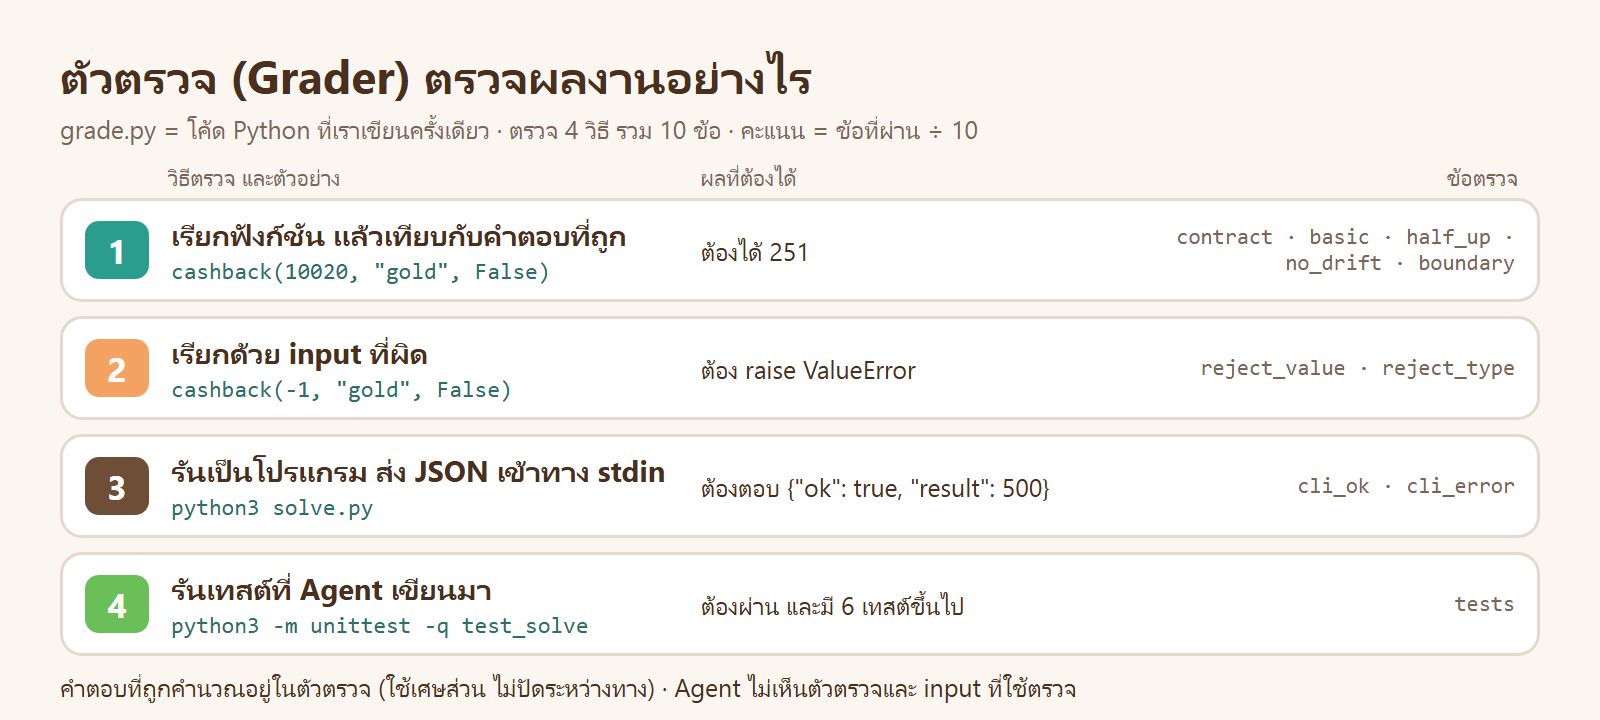
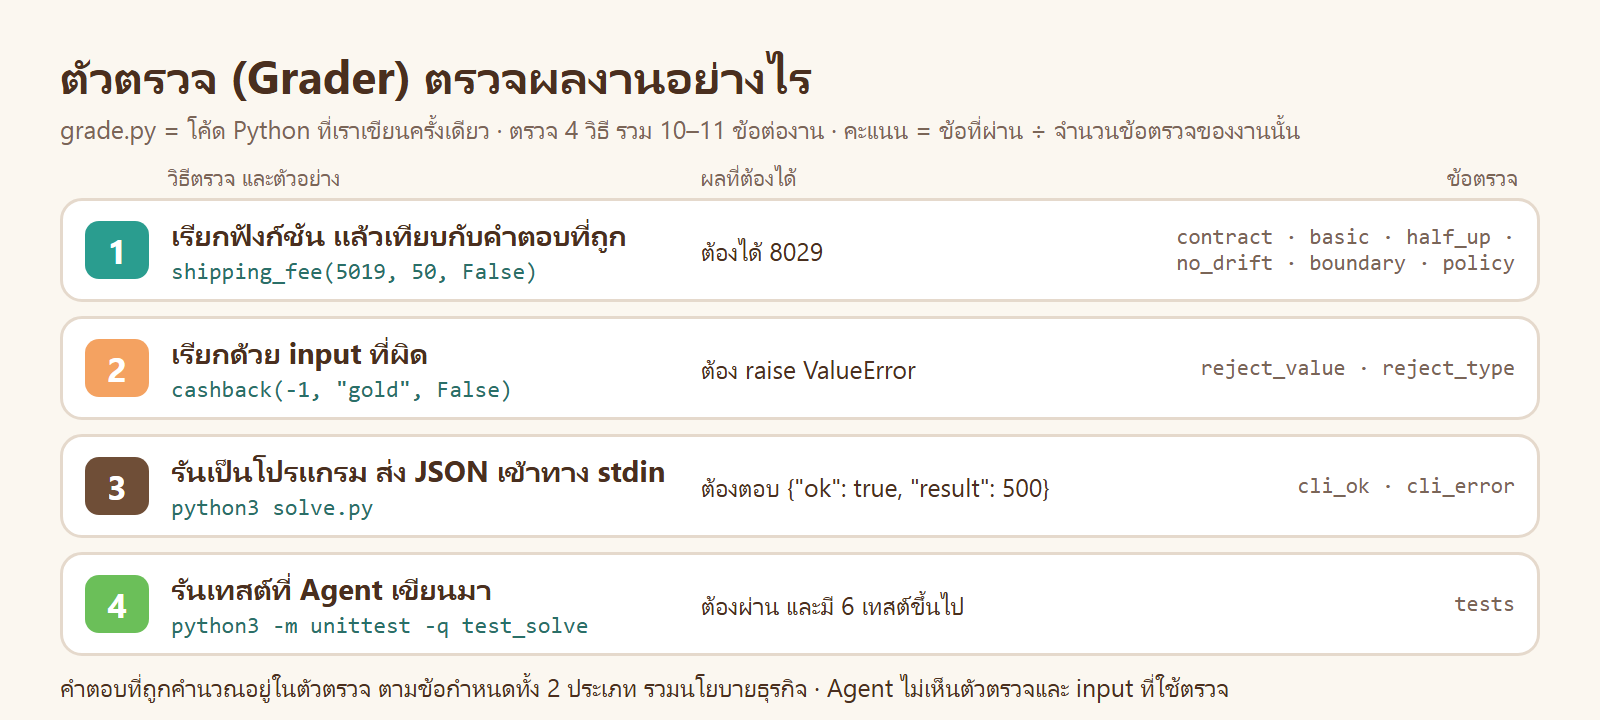
Skill Optimizer: 1.7 covers the policy check and business tacit knowledge
Add the four hidden policies (C1 C2 S1 S2), the 11th check `policy`, per-task
check counts, the policy block in grade.py, and a regraded v0 example. Redraw
d01, d02 and g22 for 10-11 checks.

diff --git a/03_week03/05_Skill_Optimizer/tools/diagrams.py b/03_week03/05_Skill_Optimizer/tools/diagrams.py
@@ -25,12 +25,12 @@ def arrow(txt="➜"):
 def pipeline():
     row1 = "".join([
         card("#6F4E37", "โจทย์ 6 ข้อ", "suite/suite.json", "กติกาธุรกิจของแต่ละฟังก์ชัน<br>แบ่ง Training 4 · Validation 2", "flex:1"),
-        card("#6F4E37", "ตัวตรวจ (Grader)", "suite/grade.py", "โค้ด Python ที่เราเขียนเอง<br>ตรวจมาตรฐานของร้าน 10 ข้อ", "flex:1"),
+        card("#6F4E37", "ตัวตรวจ (Grader)", "suite/grade.py", "โค้ด Python ที่เราเขียนเอง<br>ตรวจข้อกำหนดของร้าน 10–11 ข้อ", "flex:1"),
         card("#6F4E37", "สกิล 1 รุ่น", "skills/money-coder/v0/SKILL.md", "มาตรฐานของร้านที่เขียนให้ AI อ่าน<br>สิ่งเดียวที่เปลี่ยนในแต่ละรุ่น", "flex:1")])
     row2 = arrow("").join([]) + "".join([
         card("#2A9D8F", "1 เตรียมโฟลเดอร์ว่าง", "sandbox/", "วางสกิลไว้ใน<br>./skills", "flex:1"), arrow(),
         card("#2A9D8F", "2 Agent เขียนโค้ด", "solve.py · test_solve.py", "อ่านโจทย์และสกิล<br>แล้วเขียนเอง", "flex:1.15"), arrow(),
-        card("#F4A261", "3 ตัวตรวจให้คะแนน", "grade.py → grade.json", "รันโค้ดของ Agent<br>ผ่านกี่ข้อจาก 10", "flex:1.1"), arrow(),
+        card("#F4A261", "3 ตัวตรวจให้คะแนน", "grade.py → grade.json", "รันโค้ดของ Agent<br>ผ่านกี่ข้อจาก 10–11", "flex:1.1"), arrow(),
         card("#6BBF59", "4 รวมผลและตัดสิน", "report · gate", "เฉลี่ย 18 Trial เทียบรุ่นฐาน<br>ACCEPT หรือ REJECT", "flex:1.15")])
     body = """<h1>ไพป์ไลน์การทดลองของสกิล 1 รุ่น</h1>
     <div class='sub' style='margin-bottom:14px'>คนเตรียม 3 อย่าง · ที่เหลือ skill-optimizer รันให้อัตโนมัติ</div>
@@ -46,8 +46,8 @@ def pipeline():
 
 def grader():
     rows = [
-        ("teal", "1", "เรียกฟังก์ชัน แล้วเทียบกับคำตอบที่ถูก", "cashback(10020, \"gold\", False)", "ต้องได้ 251",
-         "contract · basic · half_up · no_drift · boundary"),
+        ("teal", "1", "เรียกฟังก์ชัน แล้วเทียบกับคำตอบที่ถูก", "shipping_fee(5019, 50, False)", "ต้องได้ 8029",
+         "contract · basic · half_up · no_drift · boundary · policy"),
         ("orange", "2", "เรียกด้วย input ที่ผิด", "cashback(-1, \"gold\", False)", "ต้อง raise ValueError",
          "reject_value · reject_type"),
         ("brown", "3", "รันเป็นโปรแกรม ส่ง JSON เข้าทาง stdin", "python3 solve.py", "ต้องตอบ {\"ok\": true, \"result\": 500}",
@@ -65,11 +65,11 @@ def grader():
           <div style='flex:1;%s;font-size:22px;color:#7A6557;text-align:right'>%s</div></div>""" % (
             CARD, color, no, how, MONO, call, want, MONO, checks)
     body = """<h1>ตัวตรวจ (Grader) ตรวจผลงานอย่างไร</h1>
-    <div class='sub' style='margin-bottom:16px'>grade.py = โค้ด Python ที่เราเขียนครั้งเดียว · ตรวจ 4 วิธี รวม 10 ข้อ · คะแนน = ข้อที่ผ่าน ÷ 10</div>
+    <div class='sub' style='margin-bottom:16px'>grade.py = โค้ด Python ที่เราเขียนครั้งเดียว · ตรวจ 4 วิธี รวม 10–11 ข้อต่องาน · คะแนน = ข้อที่ผ่าน ÷ จำนวนข้อตรวจของงานนั้น</div>
     <div style='display:flex;gap:22px;font-size:23px;color:#7A6557;padding:0 22px 6px'>
       <div style='width:64px'></div><div style='flex:1.25'>วิธีตรวจ และตัวอย่าง</div><div style='flex:0.95'>ผลที่ต้องได้</div><div style='flex:1;text-align:right'>ข้อตรวจ</div></div>
     %s
-    <div style='font-size:25px;color:#4A2F1F;margin-top:6px'>คำตอบที่ถูกคำนวณอยู่ในตัวตรวจ (ใช้เศษส่วน ไม่ปัดระหว่างทาง) · Agent ไม่เห็นตัวตรวจและ input ที่ใช้ตรวจ</div>""" % h
+    <div style='font-size:25px;color:#4A2F1F;margin-top:6px'>คำตอบที่ถูกคำนวณอยู่ในตัวตรวจ ตามข้อกำหนดทั้ง 2 ประเภท รวมนโยบายธุรกิจ · Agent ไม่เห็นตัวตรวจและ input ที่ใช้ตรวจ</div>""" % h
     shot("d02-grader", body, 720)
 
 

diff --git a/03_week03/05_Skill_Optimizer/README.md b/03_week03/05_Skill_Optimizer/README.md
@@ -366,7 +366,8 @@ Ran 12 tests ... OK
 | | Agent (AI ที่เขียนโค้ด) | ตัวตรวจ (`grade.py`) |
 |---|---|---|
 | ข้อกำหนดที่ระบุชัด | ✓ อ่านจากโจทย์ | ✓ |
-| ความรู้แฝงของทีม | ✗ รู้เฉพาะส่วนที่สกิลบอก | ✓ ครบ 5 ข้อ |
+| ความรู้แฝงกลุ่ม 1: มาตรฐานการเขียนโค้ด 5 ข้อ | ✗ รู้เฉพาะส่วนที่สกิลบอก | ✓ |
+| ความรู้แฝงกลุ่ม 2: นโยบายธุรกิจ 4 ข้อ | ✗ รู้เฉพาะส่วนที่สกิลบอก | ✓ |
 | Input ที่ใช้ตรวจ | ✗ | ✓ ซ่อนไว้ในไฟล์ |
 | คำตอบที่ถูก | ✗ | ✓ คำนวณเอง |
 
@@ -378,11 +379,24 @@ Ran 12 tests ... OK
 | ตัดสินด้วยเกณฑ์เดียวกันทุกครั้ง | คะแนนของทุกรุ่นเทียบกันได้อย่างยุติธรรม |
 | ถ้าตัวตรวจผิด ตัวเลขทุกตัวผิดตาม | ต้องตรวจตัวตรวจก่อนใช้ด้วย [`suite/check_grader.py`](suite/check_grader.py) (LAB 0) |
 
+### ความรู้แฝงกลุ่ม 2: นโยบายธุรกิจ 4 ข้อ
+
+นโยบายที่พนักงานรู้ แต่ไม่ได้เขียนลงโจทย์ · มีอยู่ **ในตัวตรวจเท่านั้น** · ใช้กับงาน 3 ค่าส่ง และงาน 4 เงินคืน
+
+| ข้อ | งาน | โจทย์บอกว่า (Explicit Requirement) | ทีมรู้กันเองว่า (Tacit Knowledge) | ✓ ถูก | ✗ ทำตามโจทย์อย่างเดียว |
+|---|---|---|---|---|---|
+| **C1** | เงินคืน | เดือนเกิด ได้เงินคืน 2 เท่า | สิทธิ์ 2 เท่า **เฉพาะ gold และ platinum** | `cashback(20000, "silver", True)` → `300` | `600` |
+| **C2** | เงินคืน | คืนเงินคืน เป็นจำนวนเต็มสตางค์ | เงินคืนเป็นเงินที่ร้าน **จ่ายออก** จึง **ปัดลง** | `cashback(10020, "gold", False)` → `250` | `251` |
+| **S1** | ค่าส่ง | `distance_km` ตั้งแต่ 0 | 0 กม. = ลูกค้า **รับเองที่ร้าน** ไม่คิดค่าส่ง | `shipping_fee(3000, 0, False)` → `0` | `8000` |
+| **S2** | ค่าส่ง | น้ำหนัก 1–30,000 กรัม | ส่งด่วนรับ **ไม่เกิน 20,000 กรัม** | `shipping_fee(20001, 10, True)` → `ValueError` | `45752` |
+
+C1 และ C2 คือกรณีที่โจทย์เขียน **กว้างกว่าที่ร้านทำจริง** ซึ่งพบบ่อยในงานจริง · C2 เป็นข้อยกเว้นของความรู้แฝงข้อ 2 (ปัดครึ่งขึ้น) เฉพาะเงินที่ร้านจ่ายออก
+
 ### ตัวตรวจตรวจอย่างไร
 
-![ตัวตรวจ ตรวจผลงาน 4 วิธี รวม 10 ข้อ](img/d02-grader.png)
+![ตัวตรวจ ตรวจผลงาน 4 วิธี](img/d02-grader.png)
 
-**ข้อตรวจ 10 ข้อ** · ข้อ 2–7 ใช้ Input หลายชุด ต้องถูก **ทุกชุด** จึงผ่าน
+**ข้อตรวจ 11 แบบ** · ข้อ 2–7 และ 11 ใช้ Input หลายชุด ต้องถูก **ทุกชุด** จึงผ่าน
 
 | # | ข้อตรวจ | ผ่านเมื่อ | ตรวจข้อกำหนด |
 |---|---|---|---|
@@ -396,52 +410,66 @@ Ran 12 tests ... OK
 | 8 | `cli_ok` | รันเป็นโปรแกรม ข้อมูลถูก → ตอบ `{"ok": true, "result": …}` exit 0 | ความรู้แฝงข้อ 4 |
 | 9 | `cli_error` | รันเป็นโปรแกรม ข้อมูลผิด → ตอบ `{"ok": false, "error": "…"}` exit 2 | ความรู้แฝงข้อ 4 |
 | 10 | `tests` | มี `test_solve.py` อย่างน้อย 6 เทสต์ มีเทสต์ของข้อมูลผิด และรันผ่าน | ความรู้แฝงข้อ 5 |
+| 11 | `policy` | ทำตามนโยบายธุรกิจของงานนั้นครบทุกกรณี | นโยบายธุรกิจ C1 C2 S1 S2 |
 
-**คะแนนของ 1 Trial = จำนวนข้อที่ผ่าน ÷ 10** · ข้อตรวจ 2 ข้อตรวจข้อกำหนดที่ระบุชัดอย่างเดียว อีก 8 ข้อตรวจความรู้แฝงของทีม (ข้อ 1 ตรวจทั้งสองประเภท)
+**จำนวนข้อตรวจต่องาน**
+
+| งาน | ข้อตรวจ | เหตุผล |
+|---|---|---|
+| 1 2 5 6 | ข้อ 1–10 = 10 ข้อ | ไม่มีนโยบายธุรกิจ |
+| 3 ค่าส่ง | ข้อ 1–11 = 11 ข้อ | เพิ่ม `policy` (S1 S2) |
+| 4 เงินคืน | 10 ข้อ (ไม่มี `half_up` มี `policy`) | เงินคืนปัดลงตาม C2 การปัดจึงตรวจใน `policy` แทน |
+
+**คะแนนของ 1 Trial = ข้อที่ผ่าน ÷ จำนวนข้อตรวจของงานนั้น**
+
+Input ของข้อตรวจอื่นในงาน 3 และ 4 ถูกเลือกให้คำตอบไม่ขึ้นกับนโยบาย โค้ดที่ไม่รู้นโยบายจึงตก **`policy` ข้อเดียว** และข้อความใต้ `✗ policy` ชี้ตรงไปที่นโยบายที่ขาด
 
 ### ข้างใน `grade.py`: ข้อกำหนดแต่ละประเภทอยู่ตรงไหน
 
 ```python
-def o_cashback(amount, tier, birthday):        # คำตอบที่ถูก
+def o_cashback(amount, tier, birthday):        # คำตอบที่ถูก (Oracle)
     if amount < 10000:                         #   ข้อกำหนดที่ระบุชัด: ต่ำกว่า 100 บาท ไม่ได้เงินคืน
         return 0
     x = amount * RATE[tier]                    #   ข้อกำหนดที่ระบุชัด: อัตราตามระดับสมาชิก
-    if birthday:
-        x *= 2                                 #   ข้อกำหนดที่ระบุชัด: เดือนเกิด 2 เท่า
-    return min(20000, half_up(x))              #   ความรู้แฝงข้อ 2: ปัดครึ่งขึ้น ครั้งเดียวตอนท้าย
+    if birthday and tier in ("gold", "platinum"):
+        x *= 2                                 #   ระบุชัด: เดือนเกิด 2 เท่า + นโยบาย C1: เฉพาะ gold platinum
+    return min(20000, int(F(x) // 1))          #   ระบุชัด: สูงสุด 200 บาท + นโยบาย C2: ปัดลง
 
 TASKS = {"t4-cashback": {
-    "basic":     [[20000, "gold", False], ...],   # Input ซ่อน: ข้อกำหนดที่ระบุชัด
-    "half_up":   [[10020, "gold", False], ...],   # Input ซ่อน: ความรู้แฝงข้อ 2
-    "bad_value": [[-1, "gold", False], ...],      # Input ซ่อน: ความรู้แฝงข้อ 3 (ต้องถูกปฏิเสธ)
+    "basic":     [[20000, "gold", False], ...],                # Input ซ่อน: ข้อกำหนดที่ระบุชัด
+    "bad_value": [[-1, "gold", False], ...],                   # Input ซ่อน: ความรู้แฝงข้อ 3
+    "policy":    [[[20000, "silver", True], 300], ...],        # Input ซ่อน + คำตอบ: นโยบาย C1 C2
 }}
 ```
 
 | ส่วนของ `grade.py` | ทำอะไร | ใช้ในข้อตรวจ |
 |---|---|---|
-| `o_cashback()` และ `o_…` อื่น | คำนวณคำตอบที่ถูก ด้วยเศษส่วน ไม่ปัดระหว่างทาง | `basic` `half_up` `no_drift` `boundary` |
-| `TASKS` | เก็บ Input ที่ซ่อนไว้ แยกตามข้อตรวจ | ข้อ 1–7 |
-| `run_cases()` | เรียกฟังก์ชันที่ Agent เขียนด้วย Input ที่ซ่อนไว้ แล้วเทียบกับคำตอบที่ถูก | ข้อ 1–7 |
+| `o_cashback()` และ `o_…` อื่น (Oracle) | คำนวณคำตอบที่ถูกด้วยเศษส่วน ตามข้อกำหนดทั้ง 2 ประเภท รวมนโยบายธุรกิจ | `basic` `half_up` `no_drift` `boundary` `cli_ok` |
+| `TASKS` | เก็บ Input ที่ซ่อนไว้ แยกตามข้อตรวจ | ข้อ 1–7 และ 11 |
+| `run_cases()` | เรียกฟังก์ชันที่ Agent เขียนด้วย Input ที่ซ่อนไว้ ใน process แยก แล้วเทียบกับคำตอบที่ถูก | ข้อ 1–7 และ 11 |
 | `cli()` | รัน `python3 solve.py` ส่ง JSON ทาง stdin แล้วอ่านคำตอบและ exit code | `cli_ok` `cli_error` |
-| ส่วนท้ายของ `main()` | รัน `python3 -m unittest` กับเทสต์ที่ Agent เขียน | `tests` |
+| บล็อก `tests` ใน `main()` | รัน `python3 -m unittest` กับเทสต์ที่ Agent เขียน | `tests` |
+| บล็อก `policy` ใน `main()` | เทียบผลกับคำตอบของนโยบายแต่ละกรณี หรือตรวจว่า raise `ValueError` | `policy` |
 
-### ตัวอย่างผลตรวจจริง
+### ตัวอย่างผลตรวจ
 
-สกิล `v0` งาน `cashback` ได้ 7/10
+โค้ด `cashback` ที่สกิล `v0` เขียนในการรันรอบก่อน ([ไฟล์](results/runs/v0/t4-cashback-r1/sandbox/solve.py)) ตรวจด้วยตัวตรวจฉบับปัจจุบัน ได้ 6/10
 
 ```text
-score 0.7
-✓ contract  ✓ basic  ✓ half_up  ✓ no_drift  ✓ boundary  ✓ reject_value  ✓ tests
+score 0.6
+✓ contract  ✓ basic  ✓ no_drift  ✓ boundary  ✓ reject_value  ✓ tests
 ✗ reject_type: cashback(20000.0, "gold", false) ต้อง raise ValueError แต่ raise TypeError
 ✗ cli_ok:      ต้องได้ {"ok": true, "result": 500} แต่ได้ {"cashback": 500}
 ✗ cli_error:   ต้องได้ {"ok": false, "error": "..."} exit 2 แต่ได้ exit 1
+✗ policy:      cashback(20000, "silver", true) คาด 300 ได้ 600 · พลาด 6 จาก 6 กรณี
 ```
 
 | บรรทัด | อ่านว่า | เบาะแสของความรู้แฝง |
 |---|---|---|
-| `✓` 7 ข้อ | สูตร การปัดเศษ และเทสต์ ถูกแล้ว | – |
+| `✓` 6 ข้อ | สูตร การปัดเศษ และเทสต์ ถูกแล้ว | – |
 | `✗ reject_type` | ใช้ error ผิดชนิด | ความรู้แฝงข้อ 3: ข้อมูลผิดต้องเป็น `ValueError` เท่านั้น |
 | `✗ cli_ok` `✗ cli_error` | ตอบ JSON คนละรูปแบบ และ exit code ผิด | ความรู้แฝงข้อ 4: รูปแบบคำตอบและ exit code ที่ร้านใช้ |
+| `✗ policy` | silver ในเดือนเกิดได้ 2 เท่าตามโจทย์ แต่ร้านไม่ให้ | นโยบาย C1: สิทธิ์เดือนเกิดเฉพาะ gold และ platinum |
 
 ## 1.8 งานทั้ง 6 ชิ้น
 
